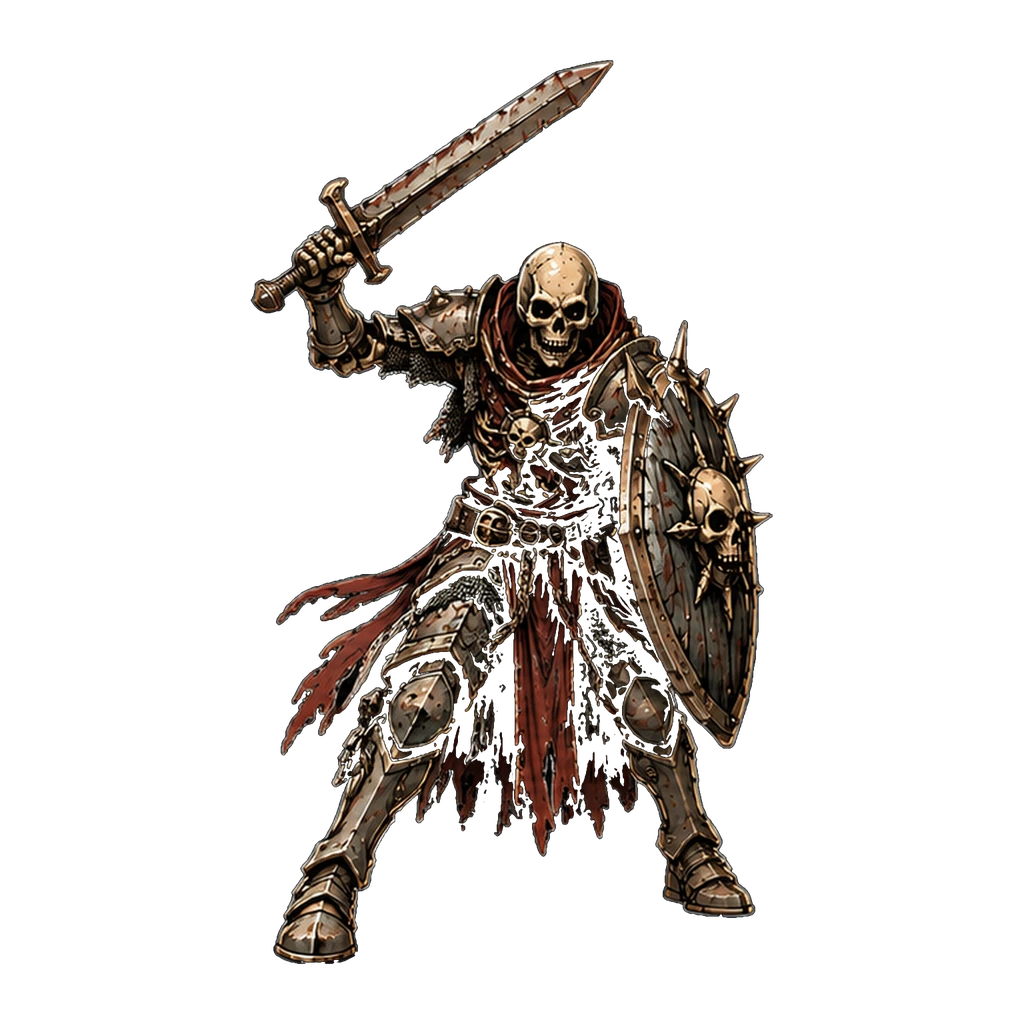
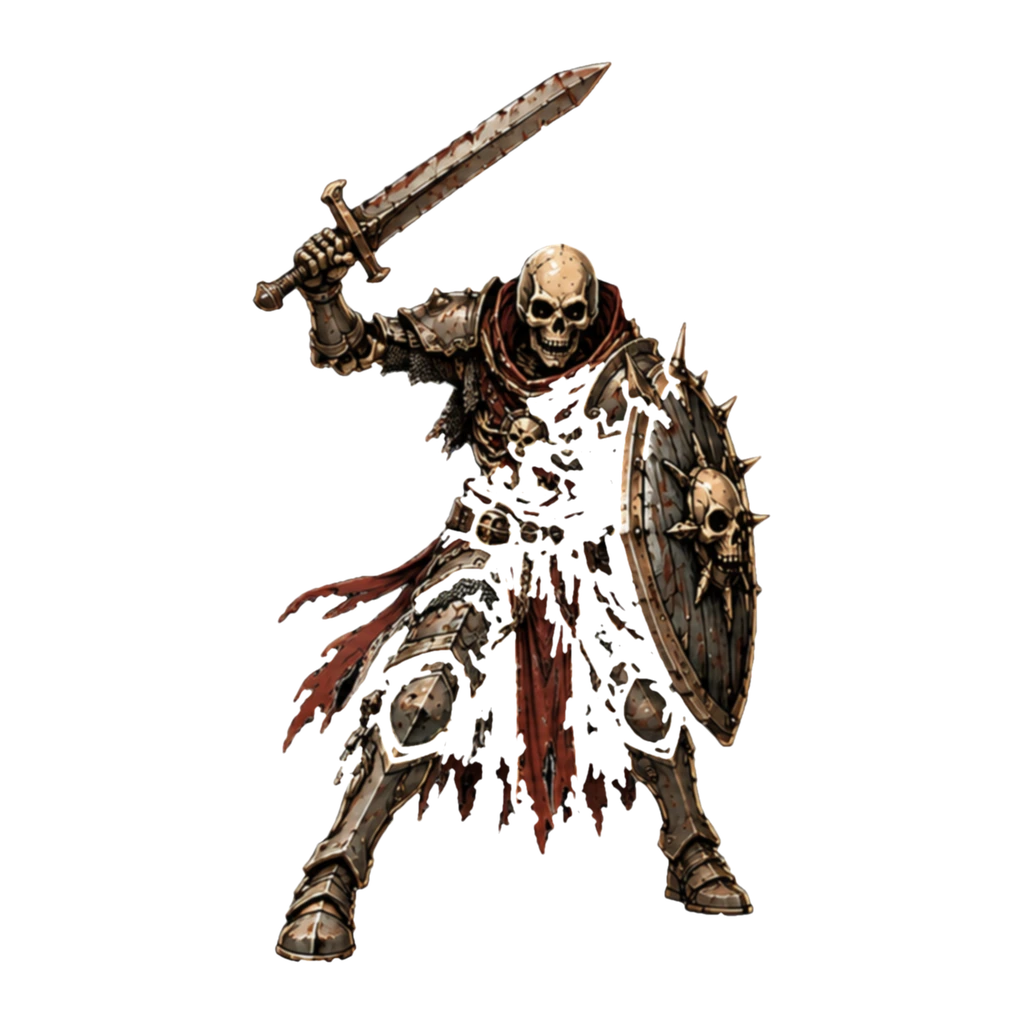
Monstres Atlas Noir : plus de scintillement (pré-traitement des images, respiration réduite, outil make_monster)
Claude-Session: https://claude.ai/code/session_016J9VLX1fiPLFcAPYid8ZLe

diff --git a/tools/make_monster.py b/tools/make_monster.py
@@ -1,0 +1,61 @@
+#!/usr/bin/env python3
+"""Prépare les cinq poses d'un monstre « Atlas Noir » à partir des images brutes (fond noir) et écrit les webp du jeu.
+Usage : python3 tools/make_monster.py <id> repos.png attaque.png coup.png attaque2.png mort.png
+  → assets/monsters/<id>.webp, <id>_attack.webp, <id>_hit.webp, <id>_attack2.webp, <id>_dead.webp (1024 px, RGBA).
+Traitements (indispensables pour que le sprite ne SCINTILLE pas en 3D) :
+  1. détourage du fond noir relié au bord (les orbites et poches sombres intérieures restent opaques) ;
+  2. suppression du liseré clair « autocollant » du contour (érosion de l'alpha) et bord adouci : un trait fin de 1-2 px qui bouge à la
+     respiration du sprite ou à la caméra crépite à l'écran ;
+  3. couleurs des pixels transparents prolongées depuis le bord (pas de frange noire ou blanche aux mipmaps) ;
+  4. léger flou des couleurs (1,2 px à 1536) : amortit le micro-contraste que la réduction 1024 → ~300 px fait danser ;
+  5. toutes les poses à la même échelle, pieds calés sur la même ligne (celle du repos).
+Côté moteur : respiration réduite à 30 % pour ces monstres (EntityLayer, méta « atlas »).
+Les imports Godot du dossier assets/monsters doivent avoir mipmaps/generate=true (voir assets/monsters/*.webp.import)."""
+import sys, pathlib
+import numpy as np
+from PIL import Image
+from scipy import ndimage as ndi
+
+ROOT = pathlib.Path(__file__).resolve().parent.parent
+ERODE = 3          # px (à 1536) retirés autour de la silhouette
+FEATHER = 1.6      # px de dégradé du bord
+BLUR = 1.2         # px (à 1536) de flou sur les couleurs
+
+def key(path):
+    a = np.asarray(Image.open(path).convert("RGB")).astype(np.float32) / 255
+    dark = a.max(-1) < 0.075
+    lab, _ = ndi.label(dark)
+    border = set(np.unique(np.concatenate([lab[0], lab[-1], lab[:, 0], lab[:, -1]]))) - {0}
+    solid = ~np.isin(lab, list(border))
+    solid = ndi.binary_opening(solid, iterations=1)
+    solid = ndi.binary_erosion(solid, iterations=ERODE)
+    alpha = ndi.gaussian_filter(solid.astype(np.float32), FEATHER)
+    alpha = np.clip((alpha - 0.2) / 0.6, 0, 1)
+    # couleurs : on prolonge l'intérieur vers l'extérieur (plus proche voisin opaque), puis léger flou
+    idx = ndi.distance_transform_edt(~solid, return_distances=False, return_indices=True)
+    filled = a[idx[0], idx[1]]
+    filled = np.stack([ndi.gaussian_filter(filled[..., c], BLUR) for c in range(3)], -1)
+    return filled, alpha
+
+def bottom(alpha):
+    rows = np.where(alpha.max(1) > 0.5)[0]
+    return int(rows.max())
+
+def main():
+    mid, files = sys.argv[1], sys.argv[2:]
+    suffixes = ["", "_attack", "_hit", "_attack2", "_dead"]
+    assert len(files) == 5, "cinq images : repos, attaque, coup, attaque2, mort"
+    data = [key(f) for f in files]
+    ref = bottom(data[0][1])
+    for suf, (rgb, alpha) in zip(suffixes, data):
+        dy = ref - bottom(alpha)
+        im = Image.fromarray((np.dstack([rgb, alpha]) * 255).astype(np.uint8), "RGBA")
+        canvas = Image.new("RGBA", im.size, (0, 0, 0, 0))
+        canvas.paste(im, (0, dy))
+        canvas = canvas.resize((1024, 1024), Image.LANCZOS)
+        out = ROOT / "assets/monsters" / f"{mid}{suf}.webp"
+        canvas.save(out, quality=92, method=6)
+        print("écrit", out.relative_to(ROOT))
+
+if __name__ == "__main__":
+    main()

diff --git a/docs/TECHNIQUE.md b/docs/TECHNIQUE.md
@@ -519,3 +519,4 @@ Après TripoSR, `Converter._bake_command` copie `res://tools_py/bake_texture.py`
 - Accueil, décor animé : `FLAME_SHADER` (home_screen.gd, `blend_add`, bruit fbm, seed/intensity) sur des `ColorRect` placés d'après l'image de fond recadrée « cover » (`_make_flames`/`_layout_flames`, positions en fraction de l'image). Chaînes `chain_left.png`/`chain_right.png` générées par script numpy (maillons de face/profil ombrés, tore + reflet) ; la tête de mort est détourée par remplissage depuis les bords et fondue en haut. En-tête (`app_header.gd`) : titre unique « ATLAS NOIR », sous-titre masqué.
 - Monstres à illustrations propres (nouvelle génération, premier : `mon_veilleur_os`) : cinq images carrées 1024 px sous `assets/monsters/` — `<id>.webp` (repos), `<id>_attack.webp` et `<id>_attack2.webp` (deux poses d'attaque tirées au hasard à chaque attaque), `<id>_hit.webp` (coup reçu, teinté en rouge) et `<id>_dead.webp` (à terre : reste affiché 0,9 s puis s'estompe, au lieu de l'écrasement). Les pieds sont calés sur la même ligne dans toutes les poses. Gérées par `EntityLayer._own_pose` / `_die` ; `tools/shot_veilleur.gd` capture le cycle complet en combat. Hauteur : ligne `veilleur` de `MON_HEIGHTS` ; résistances : `Resist.FAMILY`.
 - Catégorie d'icônes « Monstres Atlas Noir » : entrée de `ICON_CATALOG` (game_constants.json, avant « Monstres », entrées à trois éléments = vignettes lourdes). Pour ajouter un monstre de cette génération : cinq images dans `assets/monsters/`, une ligne dans cette catégorie, une dans `DungeonGenerator.TIER2/3` (tirage aléatoire) et ses résistances dans `Resist.FAMILY`. `IconResolver.texture` retombe sur `assets/monsters/<id>.webp` quand aucune icône ne correspond.
+- Anti-scintillement des monstres Atlas Noir : les cinq poses passent par `python3 tools/make_monster.py <id> repos attaque coup attaque2 mort` (détourage, contour clair « autocollant » retiré, couleurs prolongées sous l'alpha, flou léger, pieds alignés) ; mipmaps activés dans les `.webp.import` ; `EntityLayer` pose la méta `atlas` (présence de `<id>_attack.webp`) et réduit la respiration à 30 %. `tools/shot_shimmer.gd` mesure la différence moyenne entre images consécutives (de 0,0028 à 0,0018 sur le Veilleur Os). Règle valable pour tous les futurs monstres.
